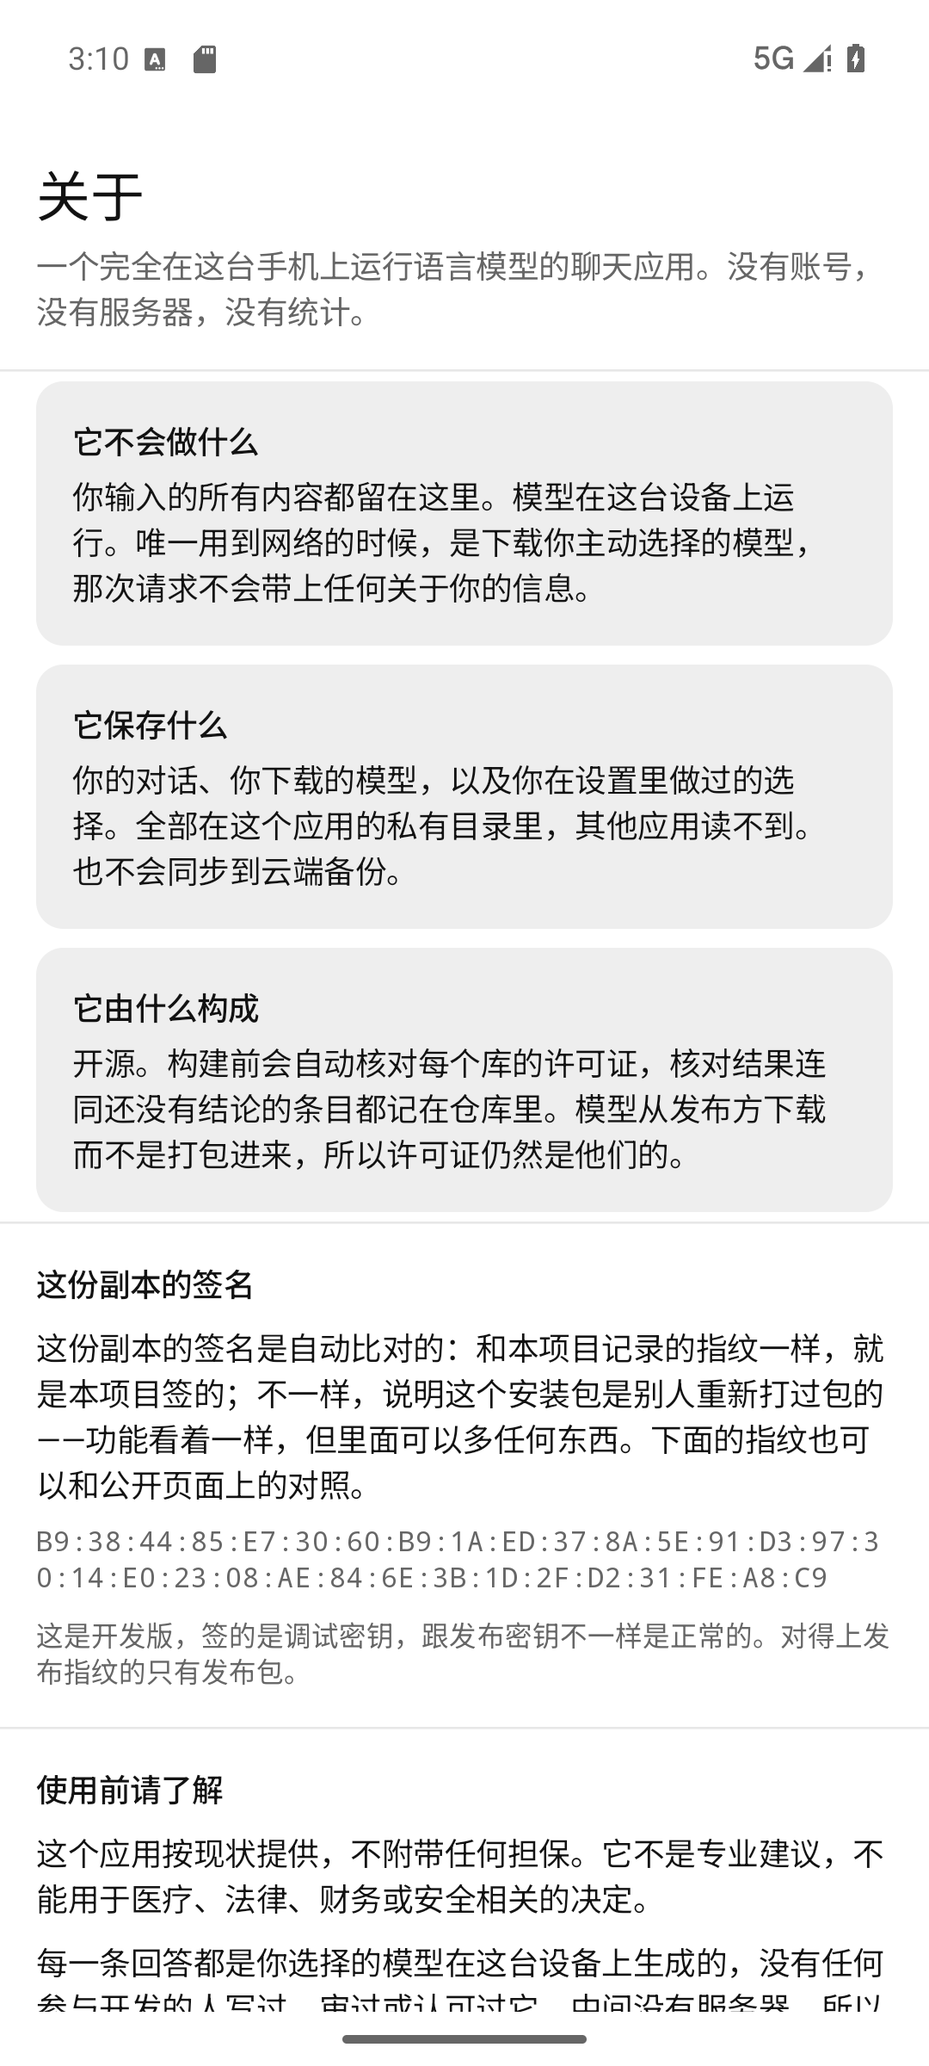
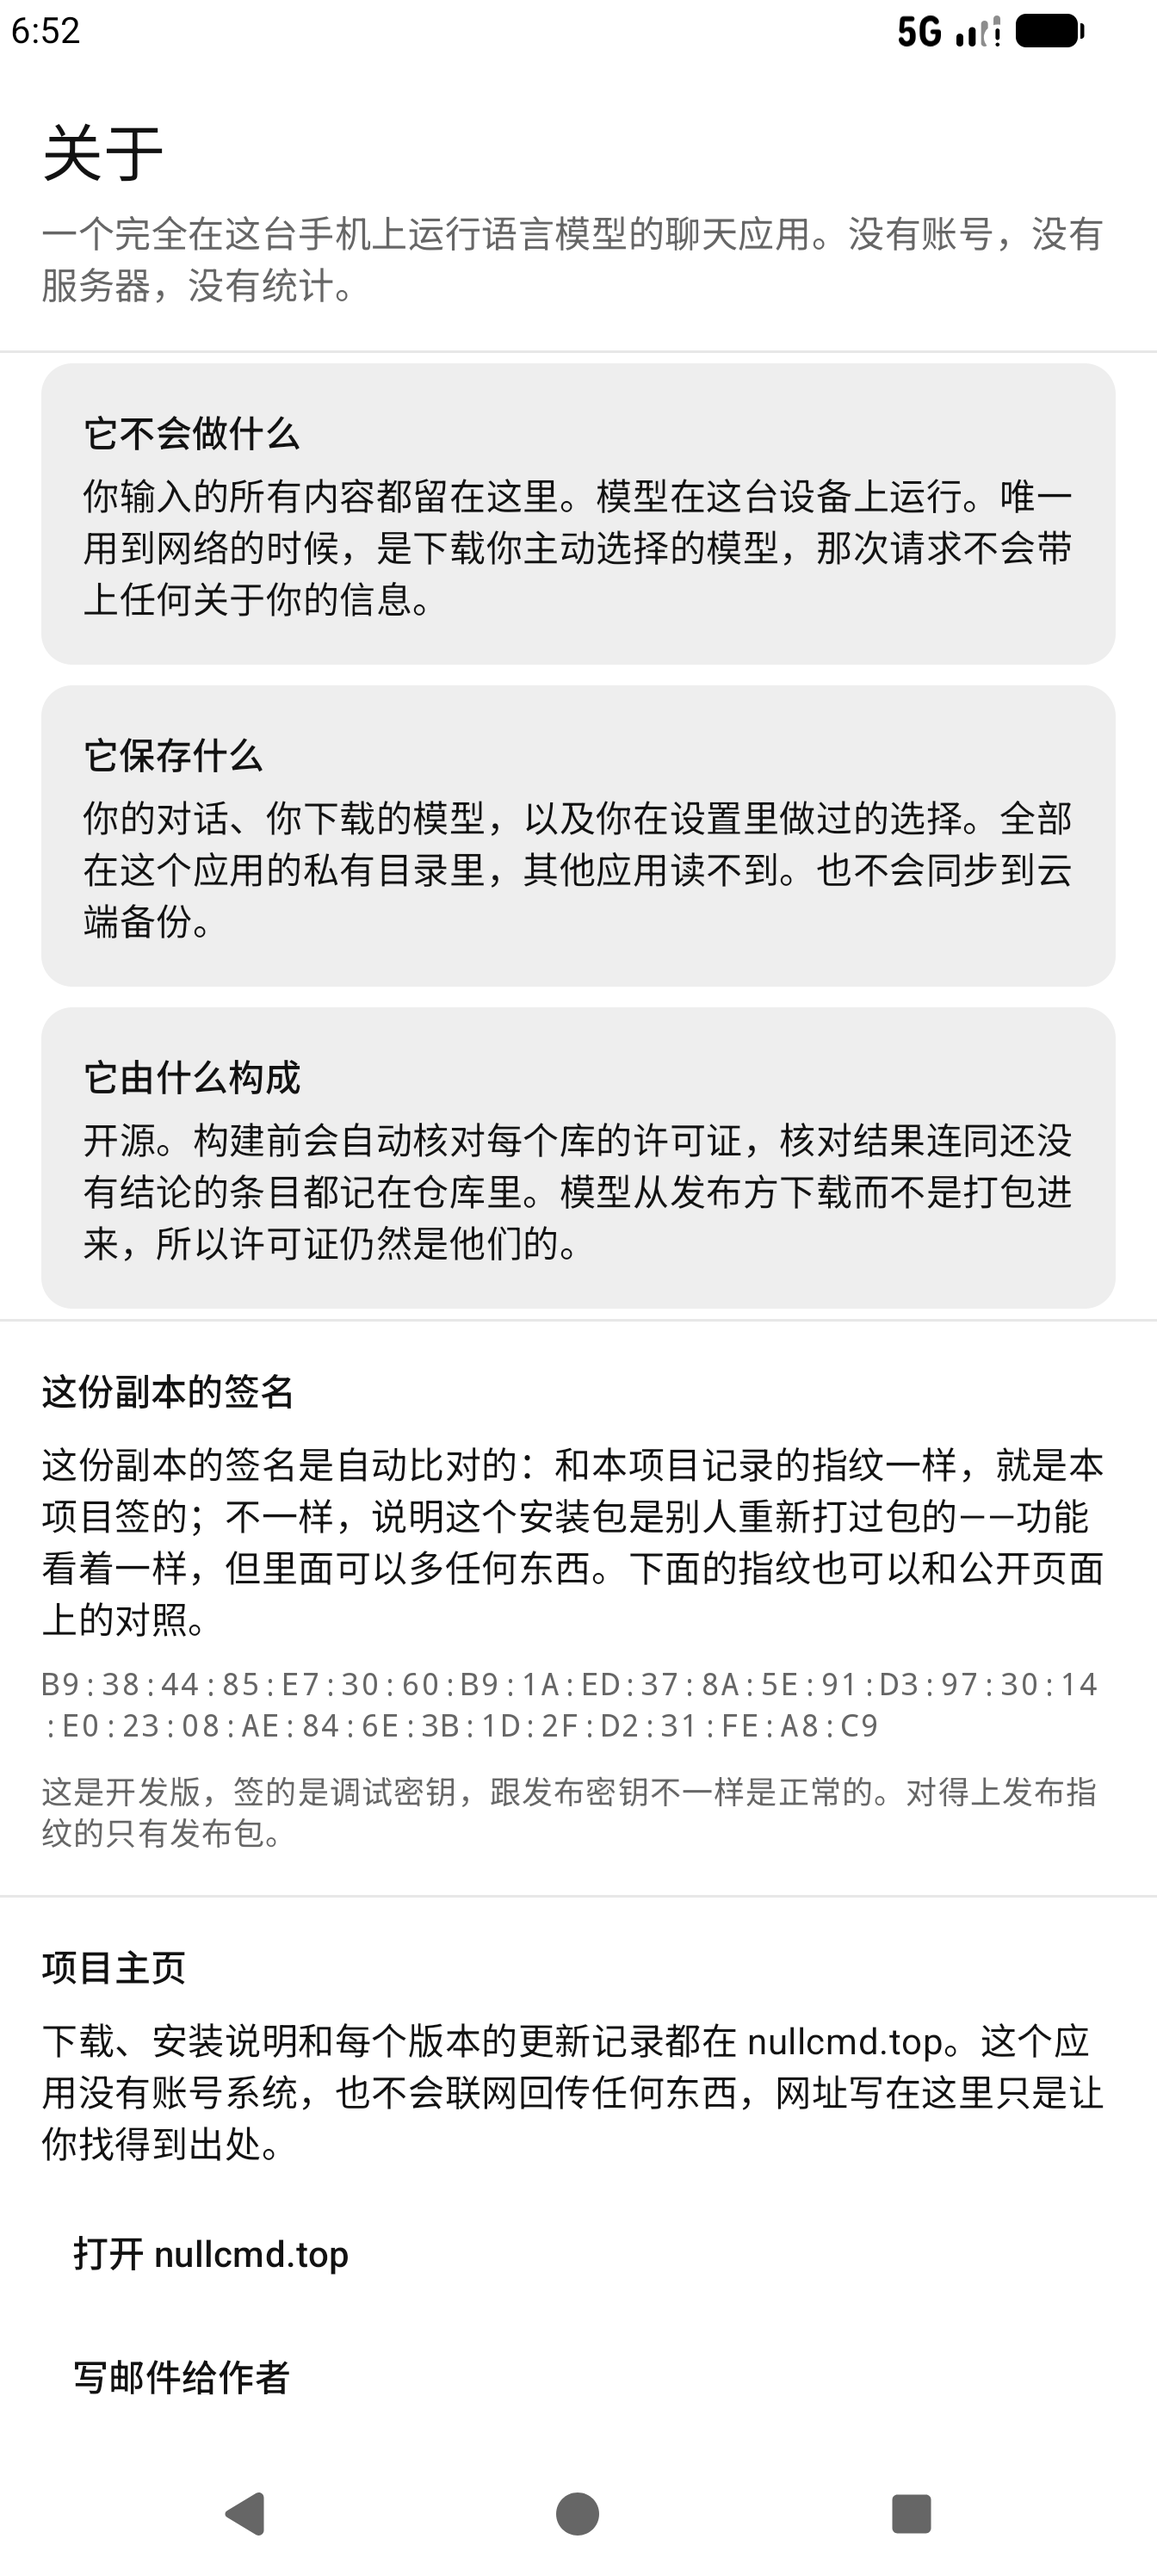
about: the app filing number, where the law expects it
桂ICP备2026027311号-2A arrived, so About carries it: one line with the number and a button that
opens the MIIT query page. The query is the point -- a number the reader can check is worth more than
a claim they have to trust.

versionName 1.3.1, versionCode 17. Checked on the API 37 emulator: the card renders, the number and
the query button are both in the view tree.

diff --git a/app/src/main/java/top/nullcmd/app/ui/about/AboutScreen.kt b/app/src/main/java/top/nullcmd/app/ui/about/AboutScreen.kt
@@ -53,6 +53,12 @@ private const val SITE_URL = "https://nullcmd.top/projects/null.html#download"
 /** 反馈与问题：站点域名上的邮箱，长期可用，不依赖任何平台账号。 */
 private const val CONTACT_EMAIL = "x@nullcmd.top"
 
+/** 工信部 APP 备案号；号段由省通信管理局下发，变更主体或包名才需要重备。 */
+private const val FILING_NUMBER = "桂ICP备2026027311号-2A"
+
+/** 备案信息查询入口。 */
+private const val FILING_QUERY_URL = "https://beian.miit.gov.cn/"
+
 @Composable
 fun AboutScreen(
     viewModel: AboutViewModel,
@@ -260,6 +266,35 @@ internal fun AboutContent(
                 },
             ) {
                 Text(stringResource(R.string.about_mail_action))
+            }
+        }
+
+        // 备案号是监管要求展示的事实，不是宣传：放在“关于”里，一行字，
+        // 点开是工信部的公开查询页，用户不必相信这里的措辞也能自己核。
+        Column(Modifier.padding(16.dp)) {
+            Text(
+                stringResource(R.string.about_filing_title),
+                style = MaterialTheme.typography.titleSmall,
+            )
+            Spacer(Modifier.height(8.dp))
+            Text(
+                stringResource(R.string.about_filing_body, FILING_NUMBER),
+                style = MaterialTheme.typography.bodyMedium,
+            )
+            Spacer(Modifier.height(8.dp))
+            TextButton(
+                onClick = {
+                    runCatching {
+                        contextForLink.startActivity(
+                            android.content.Intent(
+                                android.content.Intent.ACTION_VIEW,
+                                android.net.Uri.parse(FILING_QUERY_URL),
+                            ).addFlags(android.content.Intent.FLAG_ACTIVITY_NEW_TASK),
+                        )
+                    }
+                },
+            ) {
+                Text(stringResource(R.string.about_filing_action))
             }
         }
 
